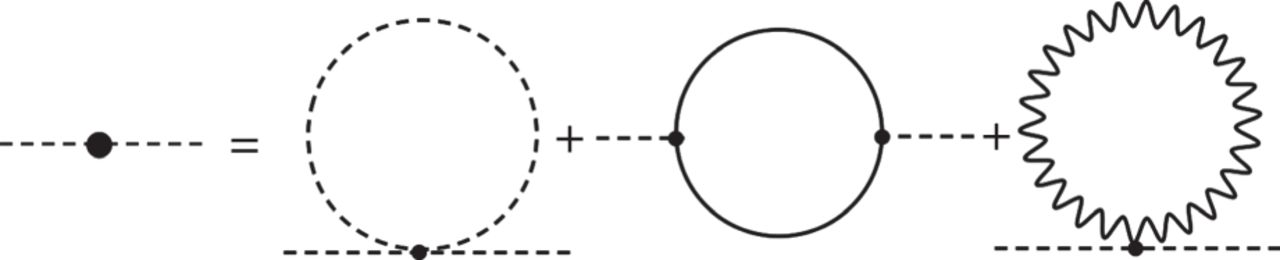
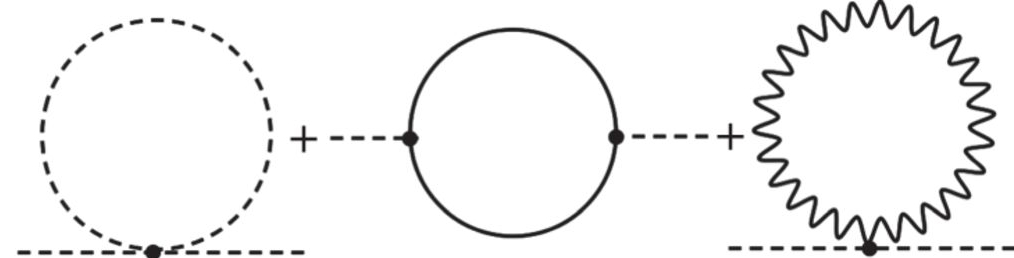
More...

diff --git a/SM/SM.tex b/SM/SM.tex
@@ -718,7 +718,7 @@ Parmis les principaux problèmes ou faits inexpliqués par le Modèle Standard, 
 \item Le nombre de familles : Le nombre de famille a été expérimentalement obtenu en comparant la section efficace hadronique en fonction de l'énergie du centre de masse expérimentale au prédiction théorique différents nombres de familles de neutrinos de masse négligeable. Actuellement on considère que trois familles\ref{neutrinos}. Cependant le fait que les neutrinos soient massif permet l'existance de plus de trois familles si les neutrinos on une masse supérieur à $m_{Z^{0}}/2$.
 \begin{figure}[h!]
 \centering
-\includegraphics[width=0.30\textwidth]{SM/neutrinos.png}
+\includegraphics[width=0.35\textwidth]{SM/neutrinos.png}
 \captionof{figure}{Mesures de la section efficace de production hadronique près de la résonance en Z. Les courbes indiquent les sections efficaces prédites pour deux,trois et quatres espéces de neutrinos avec les couplages du Modèle Standard et de masses négligeables.}
 \label{neutrinos}
 \end{figure}
@@ -734,13 +734,14 @@ m_{h}^{2}=m_{0}^{2}-\delta m_{h}^{2}
 avec $m_{0}^{2}$ la masse "nue" du boson, $m_{h}^{2}$ la masse effective et $\delta m_{h}^{2}$ les corrections radiative.
 \begin{figure}[h!]
 \centering
-\includegraphics[width=1\textwidth]{SM/corrections.jpg}
+\includegraphics[width=0.55\textwidth]{SM/corrections.jpg}
 \captionof{figure}{Correction radiative du premier ordre pour le boson de Higgs.}
 \label{corrections}
 \end{figure}
 La contribution fermionique est de la forme :
 \begin{equation}
-\delta m_{h}^{2}=-\frac{y_{f}^{2}}{16\pi^{2}}\left(2\Lambda^{2}+\cdots\right)
+\label{eq:1}
+\delta m_{h}^{2}=-\frac{y_{f}^{2}}{16\pi^{2}}\left(2\Lambda^{2}+6m_{f}\log\left(\frac{\Lambda}{m_{f}}\right)\cdots\right)
 \end{equation}
 En considérant un cut-off de l'ordre de $\Lambda \sim 10^{16}$GeV il faut donc un accord à $10^{-30}$ entre $m_{0}^{2}$ et $\delta m_{h}^{2}$. Ce problème de hiérarchie, et de réglage fin des paramètres ne semble pas naturel.
 
@@ -753,4 +754,27 @@ la matière que nous connaissons ne compose que 4.9\% du totale mass-énergie de
 \captionof{figure}{Le satellite Plank.}
 \label{Plank}
 } 
+
+\item Non unification des couplages :
+Les constantes de couplages $\alpha_{1}$,$\alpha_{1}$ et $\alpha_{3}$ respectivement de l'interaction electromagnétique, faible et forte dépendent de l'échelle d'énergie. Il s'avére que ces trois constantes se rapprochent l'une de l'autre à haute énergie mais ne concourent pas en un seul point (cf.fig\ref{constantes}). Bien que n'étant pas en soit un problème, la convergence vers une valeur unique à haute énergie et nécessaire à une théorie "du tout" qui unifierait ces trois interactions. Le calcul de l'évolution de ces constantes par la méthode de renormalisation n'aboutissant pas à la convergence de ces trois constantes tend à prouver une lacune du Modèle Standard et son caractère effectif.
+\begin{figure}[h!]
+\centering
+\includegraphics[width=0.6\textwidth]{SM/couplageSM.jpg}
+\captionof{figure}{Évolution des constantes de couplage en fonction de l'échelle d'énergie dans le cas du Modèle Standard.}
+\label{constantes}
+\end{figure}
 \end{itemize}
+
+\section{Au delà du Modèle Standard}
+Afin de résoudre certains de ces problèmes, de nombreux modèles théorique ont été développé, cependant aucun d'entre eux n'est capables de répondre à toutes les questions et combler les lacunes du Modèle Standard. Certaines de ces théorie sont des extensions du à ce modèle, d'autre propose des modèles complètement différents.
+
+La majorité des modèles repose sur les symétries du Modèle Standard et cherche à les étendre : Soit en trouvant d'autres symétries internes (Grand Unified Theorries (GUT)), soit en liant les symétries internes et externes ( supersymétrie (SUSY)) voir même modifier la nature même de l'espace temps en ajoutant des dimensions supplémentaires par exemple.
+
+\subsubsection{Les modèles de grande unification}
+Ces modèles s'appuient sur le fait qu'il ait été possible de réunir dans le Modèle Standard trois des quatre interactions que nous connaissons et que leur constantes de couplage se rapprochent l'une de l'autre à haute énergie. Il semble donc logique de vouloir unir ces trois interactions sous une même symétrie. Il n'existerait alors plus qu'un groupe G et qu'une seule constante de couplage. Ces théories doivent bien sûr être renormalisables et leur groupe doit avoir comme sous groupe celui du Modèle Standard $SU(3)\otimes SU(2) \otimes U(1)$. Les groupes $SU(5)$ et $SO(10)$ ont notamment été étudié.
+
+\subsubsection{Modèles à dimensions supplémentaires}
+Ces modèles tentent de supprimer la naturalité et la hiérarchie des échelles d'énergies en faisant tendre l'échelle de Planck vers celle de l'interaction faible. Pour cela ils prennent comme hypothèse que l'espace temps contient des dimensions supplémentaires enroulées compacts. L'interaction gravitationnelle évolue donc dans ces dimension supplémentaires.
+
+\subsubsection{La supersymètrie}
+La supersymètrie a été introduite par Weiss et Zumino en 1974. Elle consiste à supprimer les divergences quadratiques  en les annulant grâce à l'ajout de termes supplémentaires. Pour cela on associe à chacun des fermions $f_{L}$ et $f_{R}$ un partenaire scalaire $\tilde{f}_{L}$ et $\tilde{f}_{R}$ possédant les mêmes nombres leptoniques et baryoniques. Ces partenaires contribuent donc aux diagramme de correction radiative de la masse du Higgs (cf.fig\ref{corrections}). Les boucles scalaires ont une contribution positive contrairement aux boucles fermioniques, il est ainsi possible de supprimer le terme en $\Lambda^2$ de la formule (\ref{eq:1}). La masse du Higgs est varie alors comme le logarithme de l'énergie $\Lambda$. On supprime ainsi le problème du fine-tuning et de la naturalité. Les équations de renormalisation sont également modifiées et il est possible de faire concourir les constantes de couplages en un point. La supersymètrie est donc également un candidat à une théori du "tout". La supersymètrie souffre cependant de certains problèmes, en effet, les particules superpartenaires sont censé être de même masse que les particules élémentaires. Or aucune superparticule n'a encore été detécté expérimentalement. Il faut donc introduire un mécanisme de brisure de la supersymètrie.
